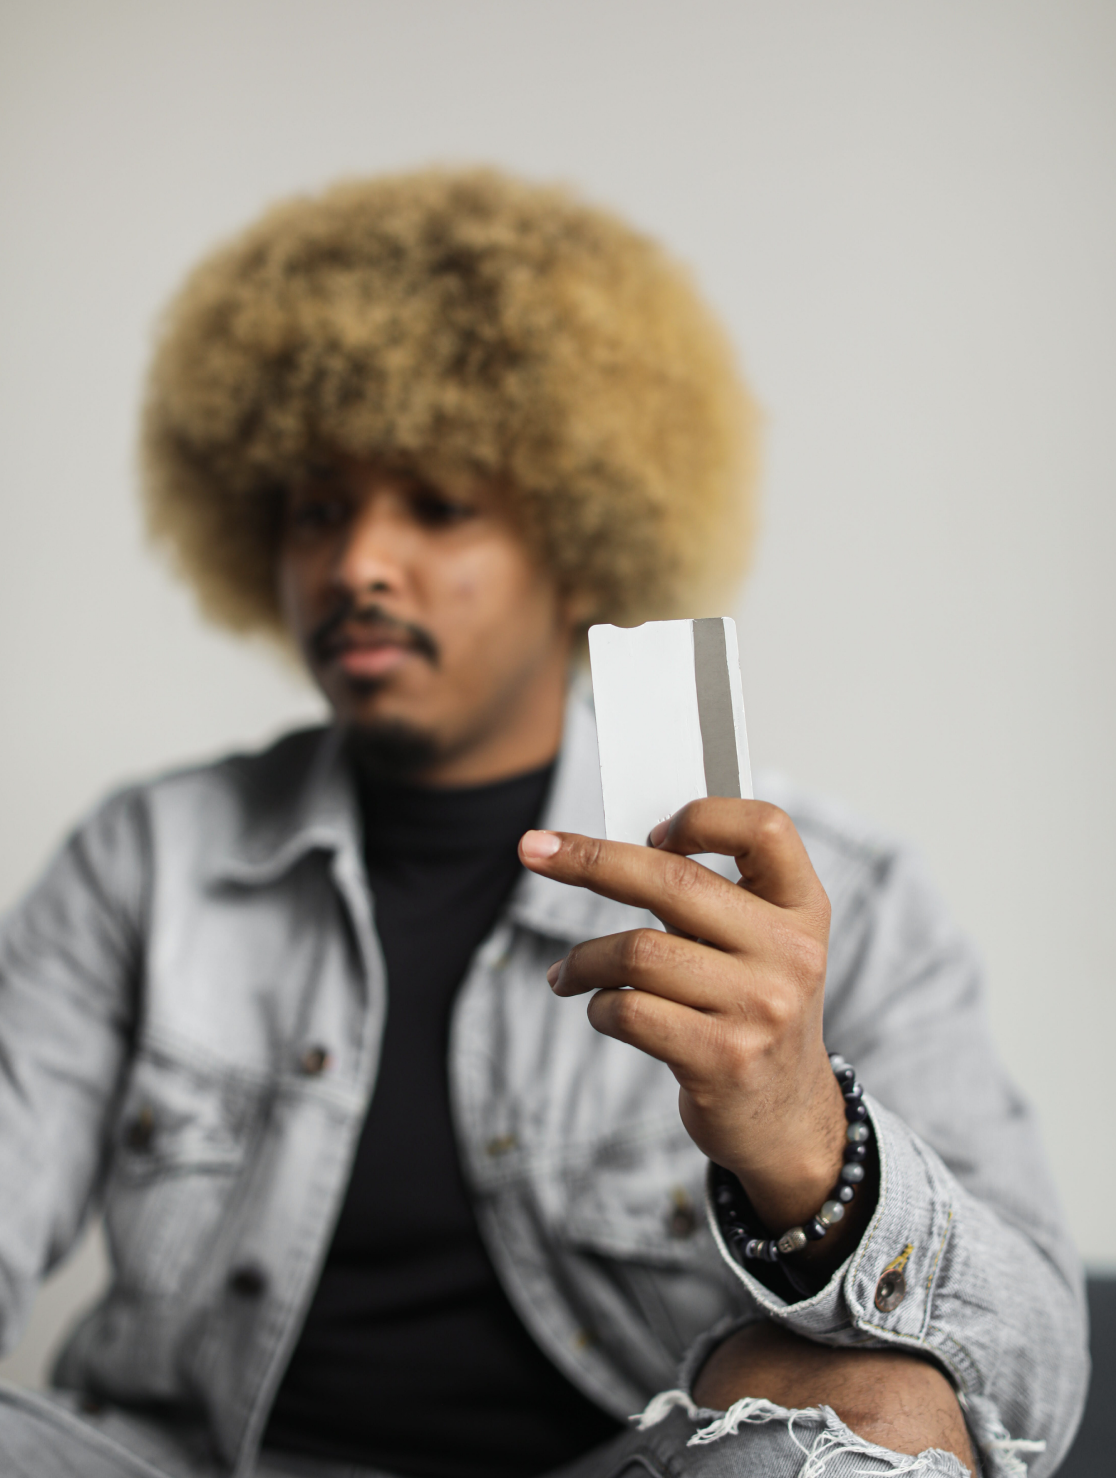
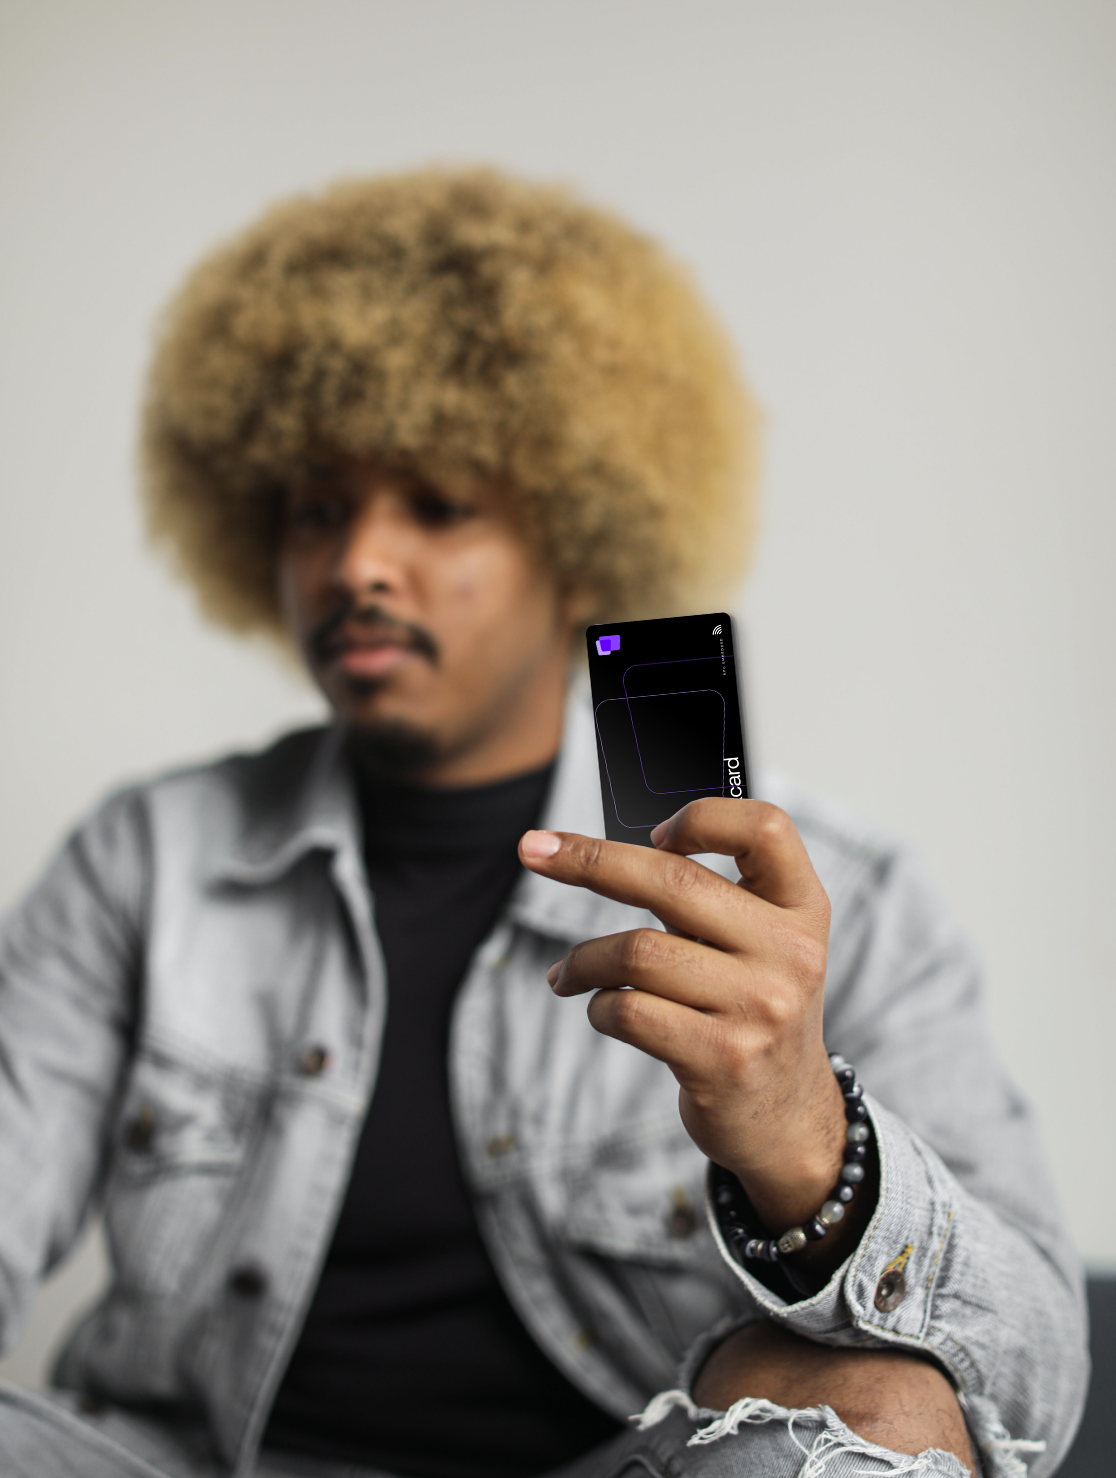
style: fix mobile text concatenation and add iphone mockup to features grid

Changed region(s): [[0.5179, 0.4046, 0.7007, 0.5913]]

diff --git a/app/(marketing)/page.tsx b/app/(marketing)/page.tsx
@@ -21,7 +21,7 @@ export default function Home() {
       <section className="w-full max-w-7xl px-6 py-24 flex flex-col lg:flex-row items-stretch gap-16">
         <div className="flex-1 text-center lg:text-left flex flex-col items-center lg:items-start">
           <h2 className="text-3xl md:text-4xl font-bold text-gray-900 leading-snug mb-6">
-            Réinventez le partage de<br className="hidden lg:block" />coordonnées en un simple<br className="hidden lg:block" />toucher ou scan !
+            Réinventez le partage de <br className="hidden lg:block" />coordonnées en un simple <br className="hidden lg:block" />toucher ou scan !
           </h2>
           <p className="text-gray-600 mb-12 text-sm leading-relaxed max-w-md mx-auto lg:mx-0">
             Grâce à la technologie Near Field Communication (NFC) la carte connectée est reliée à votre profil digital en ligne. Ce profil est modifiable gratuitement et sans limite sur une plateforme sécurisée et auditée régulièrement.
@@ -97,29 +97,34 @@ export default function Home() {
           Vous connecter,<br />de taaaannnt de façons
         </h2>
         
-        <div className="grid grid-cols-1 md:grid-cols-2 lg:grid-cols-3 gap-4">
-          <div className="col-span-1 md:col-span-1 lg:col-span-1 bg-purple-50 rounded-3xl p-8 h-64 flex flex-col items-start justify-center relative overflow-hidden">
-            <h3 className="text-3xl font-bold text-violet-900 text-left relative z-10 leading-tight">Une <span className="text-violet-600">carte</span><br/>à votre <span className="text-violet-600">image</span></h3>
-            <div className="absolute right-0 bottom-0 text-gray-300 w-32 h-32 bg-white/50 rounded-tl-full flex items-center justify-center">[Img]</div>
+        <div className="grid grid-cols-1 md:grid-cols-2 lg:grid-cols-6 gap-4">
+          <div className="col-span-1 md:col-span-1 lg:col-span-3 bg-gray-50 rounded-3xl p-8 md:p-10 h-64 md:h-72 flex flex-col items-start justify-center relative overflow-hidden">
+            <h3 className="text-3xl md:text-4xl font-bold text-indigo-950 text-left relative z-10 leading-tight">
+              Une carte<br/>
+              <span className="text-transparent bg-clip-text bg-gradient-to-r from-violet-600 to-red-600">à votre image</span>
+            </h3>
+            <div className="absolute -right-2 top-8 w-40 md:w-56 h-[150%]">
+               <Image src="/iphone.png" alt="iPhone Flexcard" fill className="object-contain object-top" />
+            </div>
           </div>
-          <div className="col-span-1 md:col-span-1 lg:col-span-2 bg-gray-50 border border-gray-100 rounded-3xl p-8 h-64 flex flex-col items-start justify-center relative overflow-hidden">
-            <h3 className="text-3xl font-bold text-gray-900 text-left relative z-10 leading-tight">
+          <div className="col-span-1 md:col-span-1 lg:col-span-3 bg-gray-50 rounded-3xl p-8 md:p-10 h-64 md:h-72 flex flex-col items-start justify-center relative overflow-hidden">
+            <h3 className="text-3xl md:text-4xl font-bold text-indigo-950 text-left relative z-10 leading-tight">
               Une carte, des<br/>
-              <span className="text-transparent bg-clip-text bg-gradient-to-r from-black via-violet-600 to-red-600">
+              <span className="text-transparent bg-clip-text bg-gradient-to-r from-violet-600 to-red-600">
                 possibilités<br/>infinies.
               </span>
             </h3>
           </div>
-          <div className="col-span-1 md:col-span-1 lg:col-span-1 bg-rose-50 rounded-3xl p-8 h-64 flex items-center justify-center relative overflow-hidden">
+          <div className="col-span-1 md:col-span-1 lg:col-span-2 bg-rose-50 rounded-3xl p-8 h-64 flex items-center justify-center relative overflow-hidden">
              <h3 className="text-2xl font-bold text-rose-900 z-10">Vos données<br/>sécurisées.</h3>
           </div>
-          <div className="col-span-1 md:col-span-1 lg:col-span-1 bg-gray-100 rounded-3xl overflow-hidden h-64 relative">
+          <div className="col-span-1 md:col-span-1 lg:col-span-2 bg-gray-100 rounded-3xl overflow-hidden h-64 relative">
              <Image src="/vos-donnees-1.png" alt="Données sécurisées 1" fill className="object-cover" />
           </div>
-          <div className="col-span-1 md:col-span-2 lg:col-span-1 bg-gray-100 rounded-3xl overflow-hidden h-64 relative">
+          <div className="col-span-1 md:col-span-2 lg:col-span-2 bg-gray-100 rounded-3xl overflow-hidden h-64 relative">
              <Image src="/vos-donnees-2.png" alt="Données sécurisées 2" fill className="object-cover" />
           </div>
-          <div className="col-span-1 md:col-span-2 lg:col-span-3 bg-green-900 rounded-3xl p-12 h-80 flex items-center justify-center relative overflow-hidden">
+          <div className="col-span-1 md:col-span-2 lg:col-span-6 bg-green-900 rounded-3xl p-12 h-80 flex items-center justify-center relative overflow-hidden">
              <Image src="/environnement.png" alt="Respect de l'environnement" fill className="object-cover opacity-80" />
              <div className="absolute inset-0 bg-black/20" />
              <h3 className="text-4xl md:text-5xl font-bold text-white z-10 relative text-center">Respect de l&apos;environnement</h3>